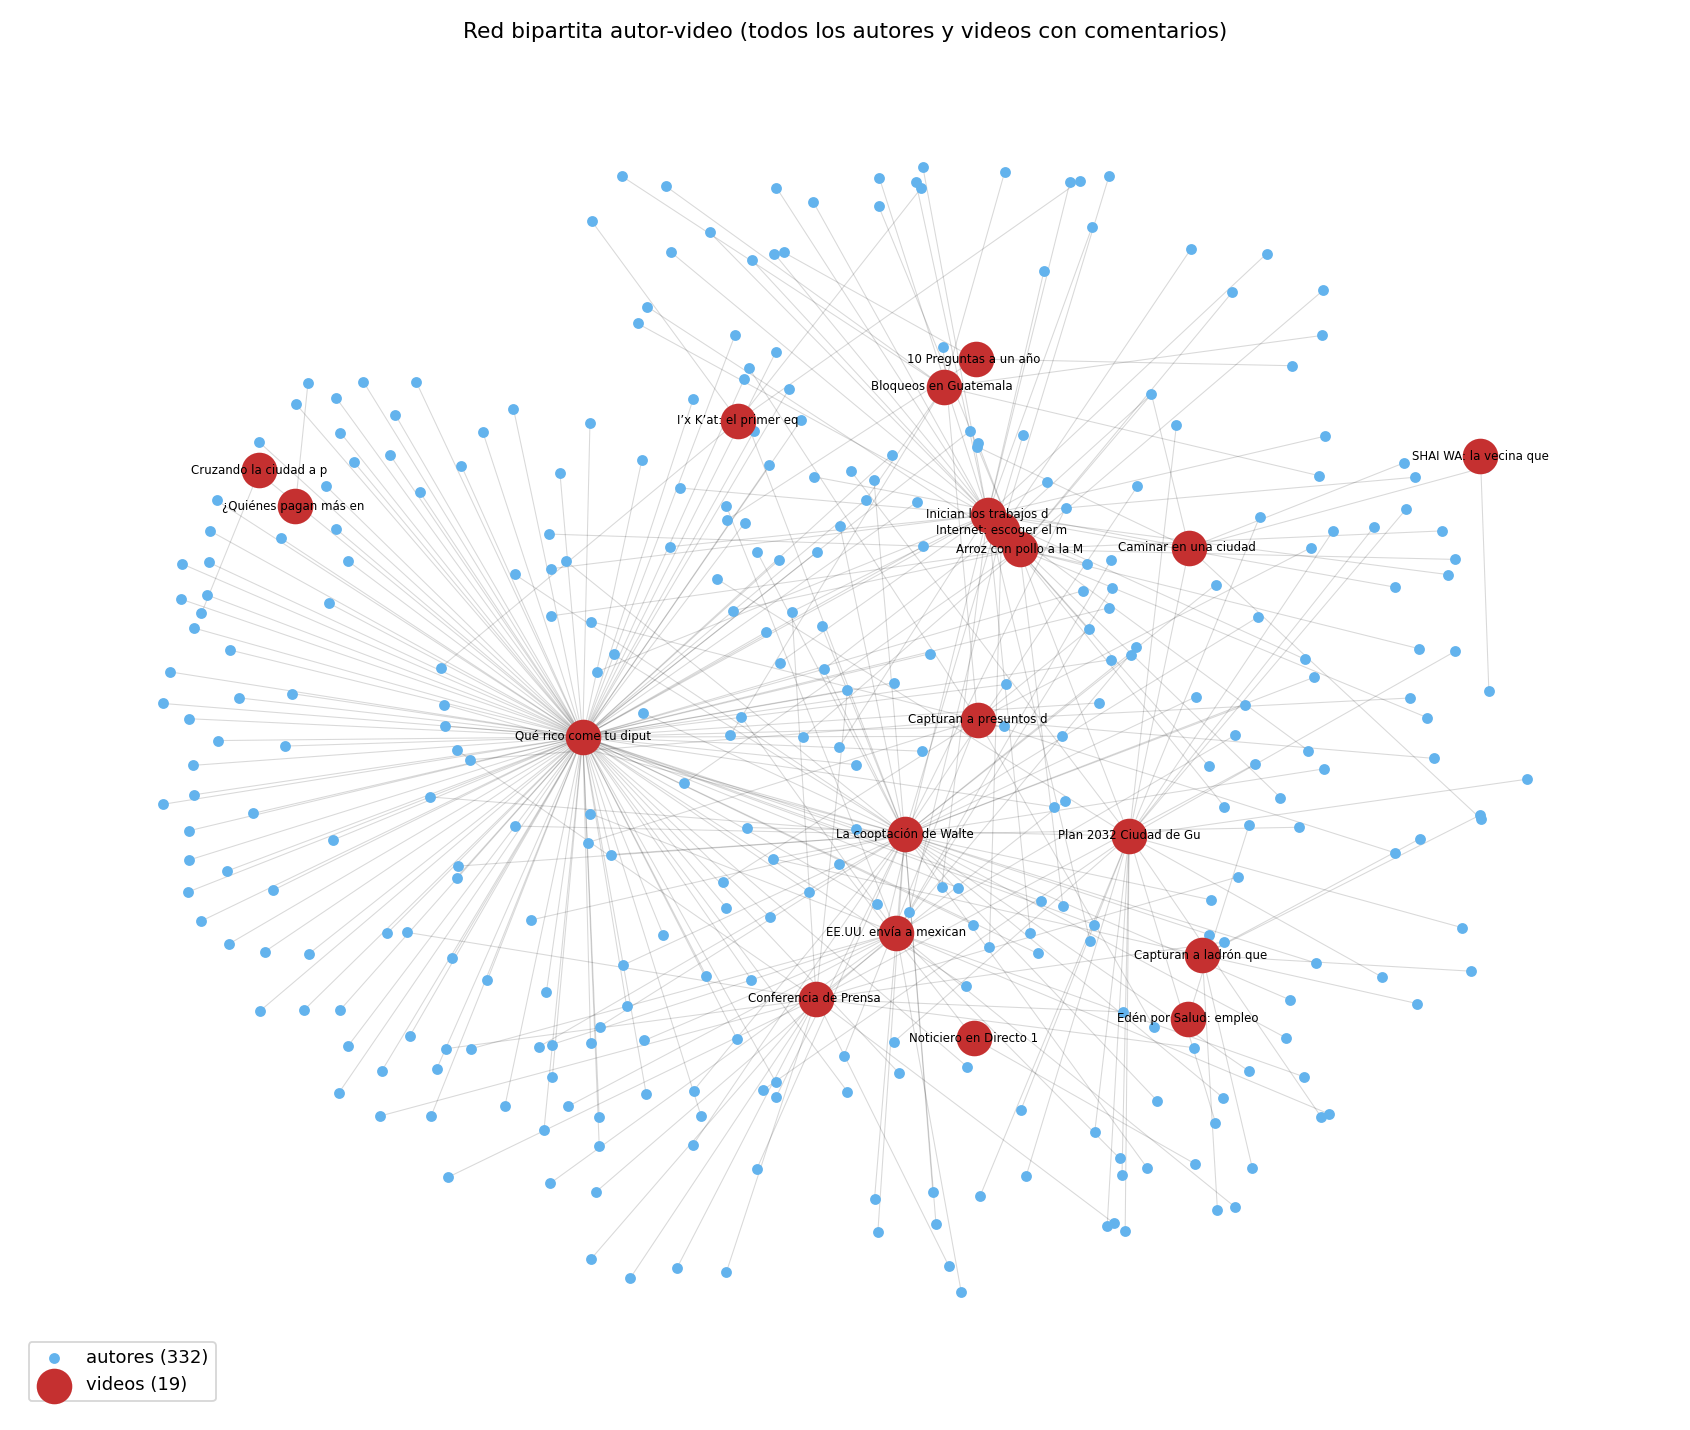
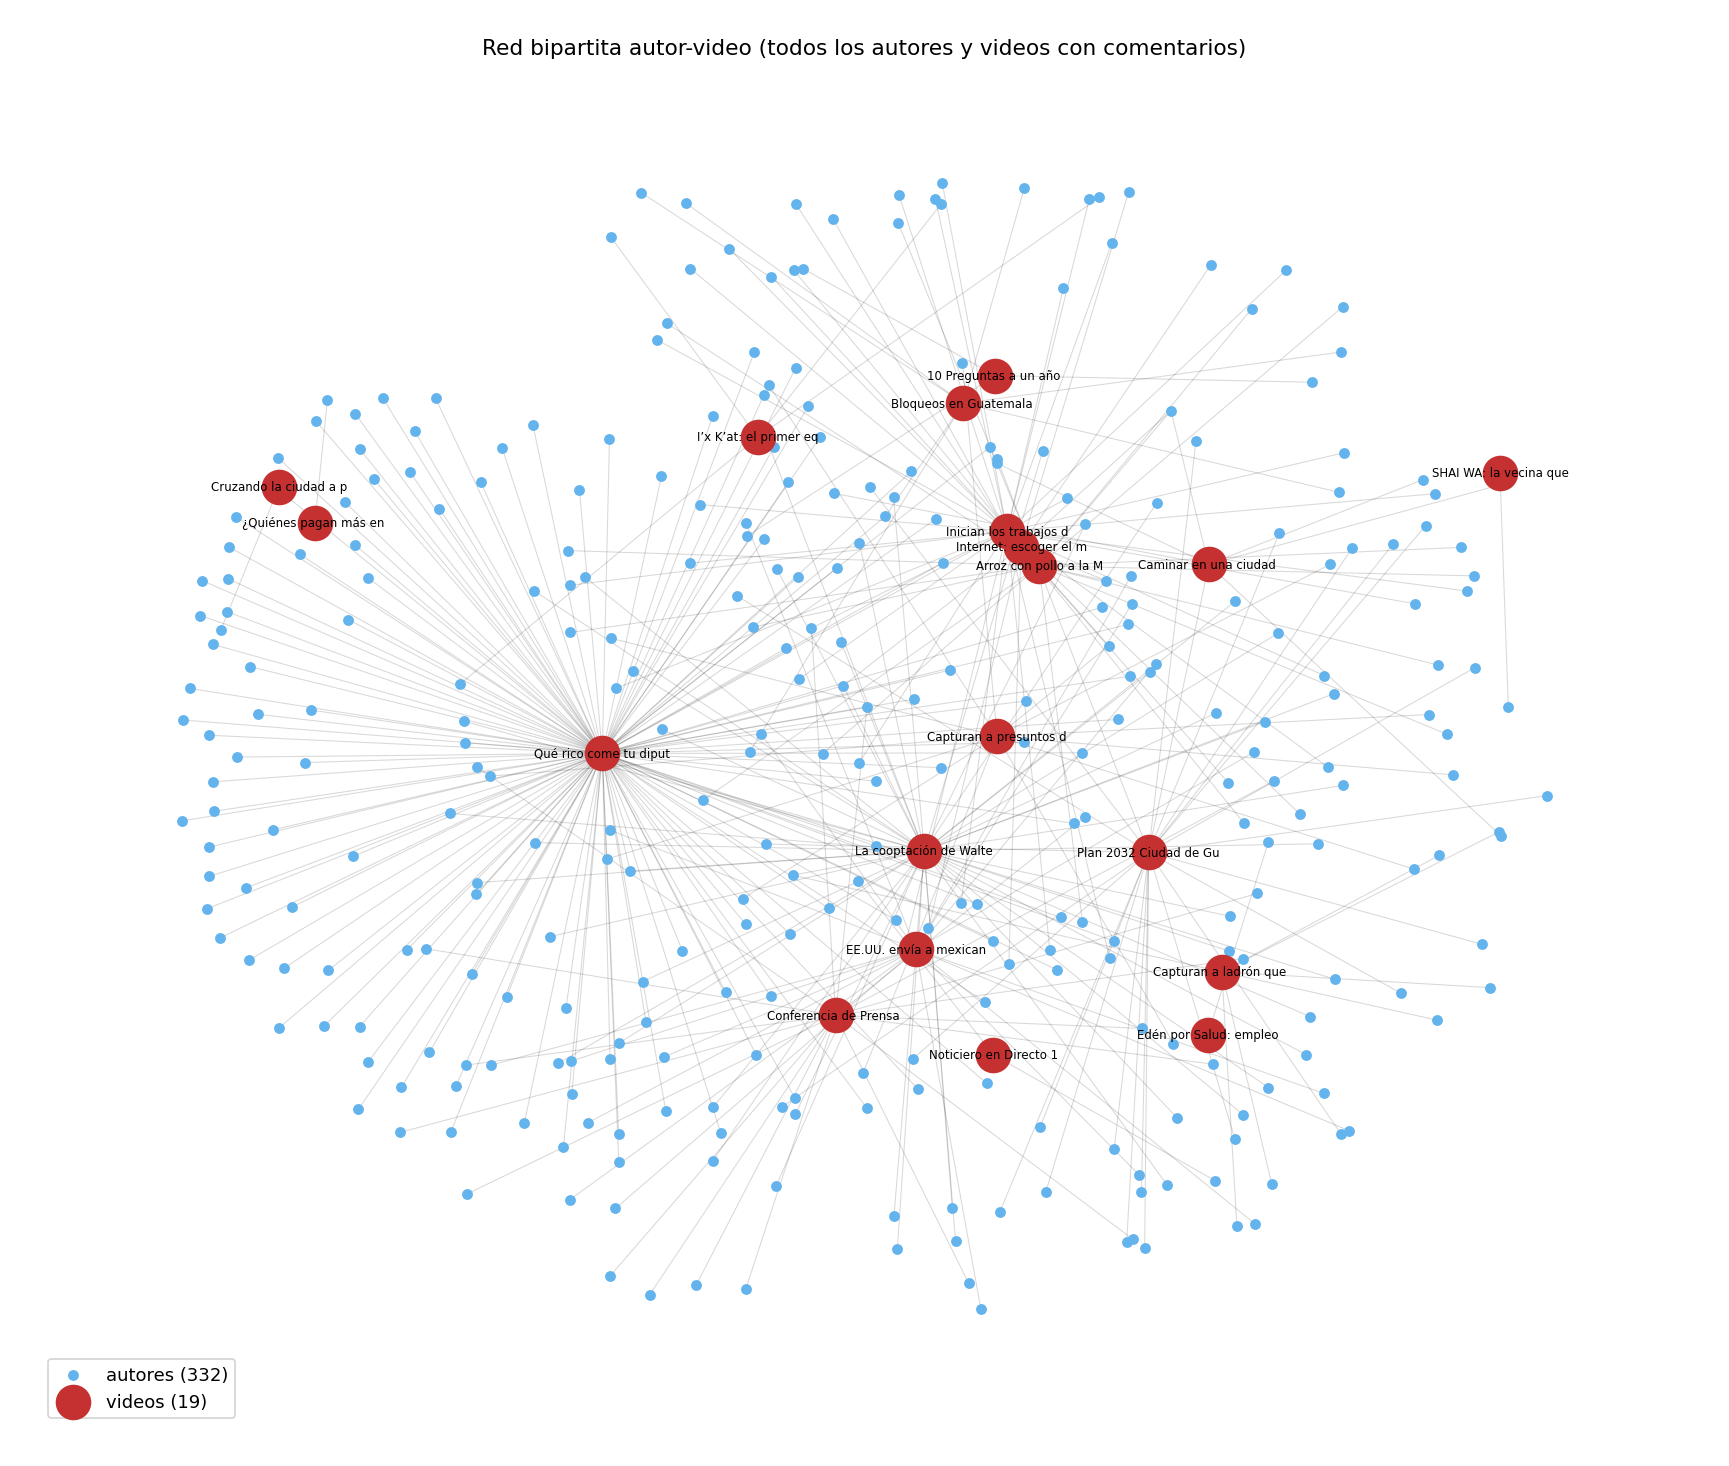
Recorta la figura de la red bipartita sin margenes en blanco
Agrega bbox_inches=tight al savefig() del notebook 03 para que la visualizacion de la red bipartita completa quede bien recortada en el informe final con su leyenda.

diff --git a/notebooks/03_red_bipartita_mia.py b/notebooks/03_red_bipartita_mia.py
@@ -172,7 +172,7 @@ plt.legend(scatterpoints=1, loc="lower left")
 plt.title("Red bipartita autor-video (todos los autores y videos con comentarios)")
 plt.axis("off")
 plt.tight_layout()
-plt.savefig(FIGS / "09_red_bipartita_completa.png", dpi=130)
+plt.savefig(FIGS / "09_red_bipartita_completa.png", dpi=130, bbox_inches="tight", pad_inches=0.3)
 plt.close()
 
 log("\n## 4.4 Visualizacion\n")
